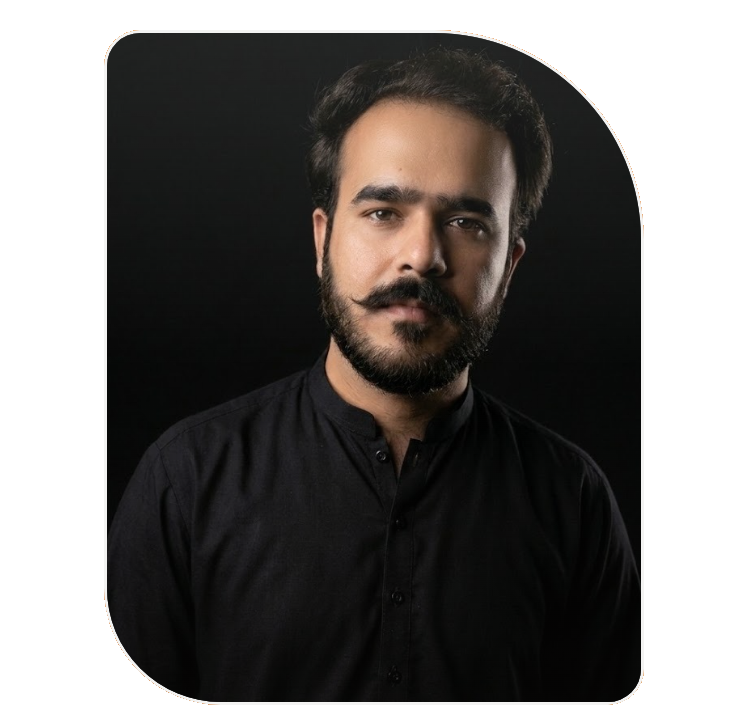
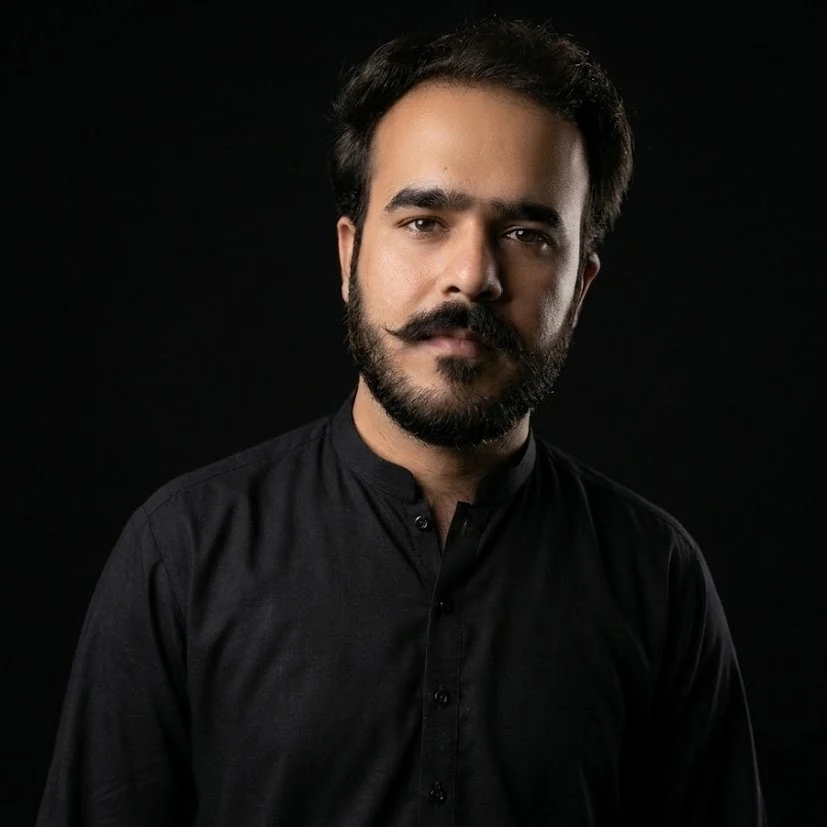
fix(about): remove white border line from photo and sanitize all portrait assets

diff --git a/assets/css/mkvision-style.css b/assets/css/mkvision-style.css
@@ -839,7 +839,7 @@
       aspect-ratio: 1 / 1.04;
       border-radius: var(--radius-md);
       overflow: hidden;
-      border: 1px solid rgba(3, 226, 156, 0.25);
+      border: none;
       box-shadow: 0 16px 40px rgba(0, 0, 0, 0.4);
       background: #031116;
       display: flex;

diff --git a/public/assets/css/mkvision-style.css b/public/assets/css/mkvision-style.css
@@ -839,7 +839,7 @@
       aspect-ratio: 1 / 1.04;
       border-radius: var(--radius-md);
       overflow: hidden;
-      border: 1px solid rgba(3, 226, 156, 0.25);
+      border: none;
       box-shadow: 0 16px 40px rgba(0, 0, 0, 0.4);
       background: #031116;
       display: flex;
